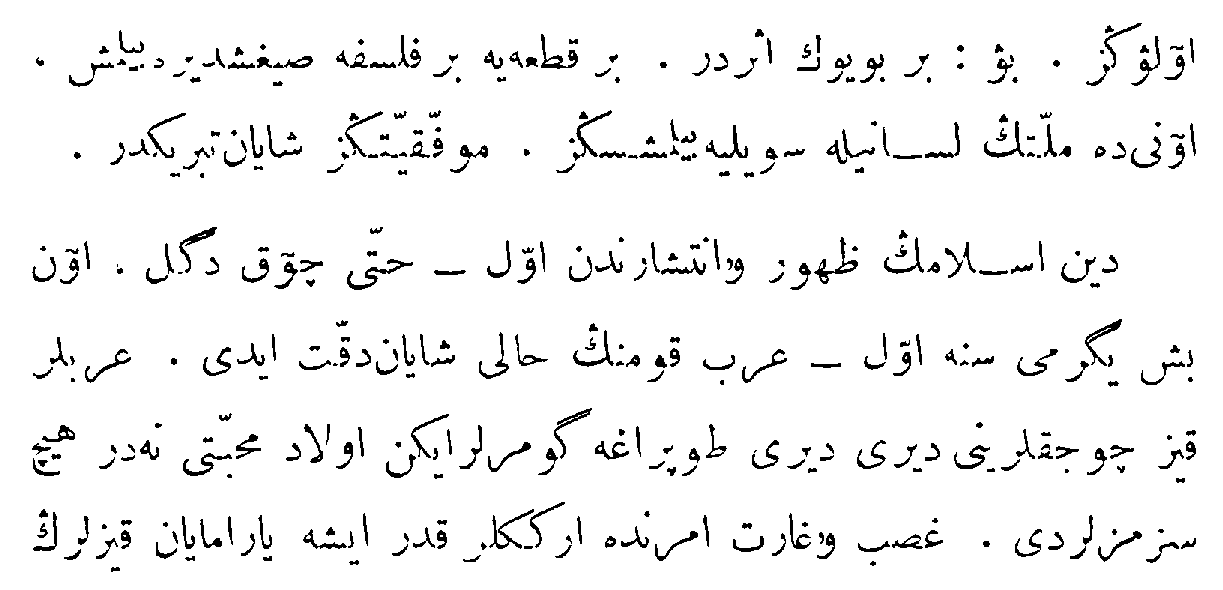
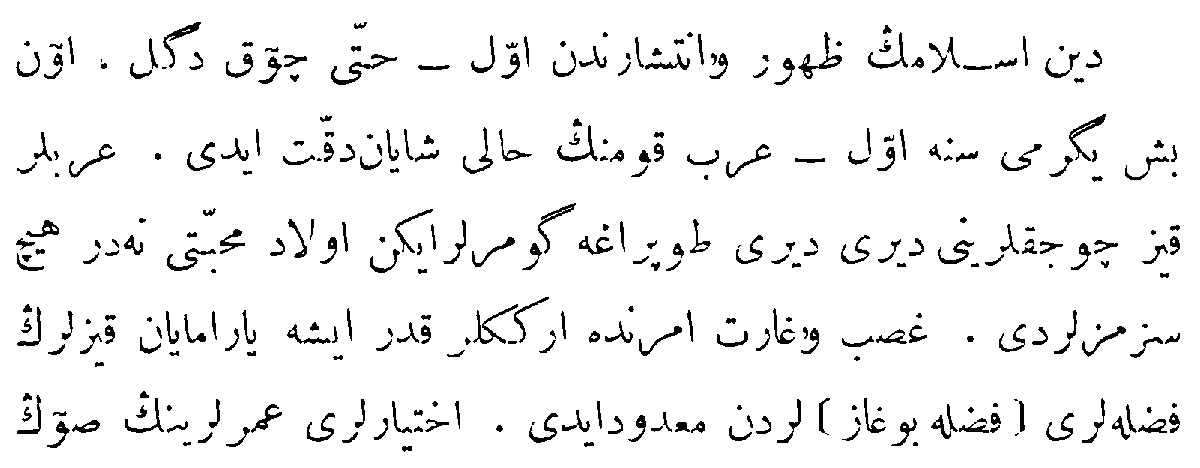
img cropped updated

diff --git a/webui/views.py b/webui/views.py
@@ -203,26 +203,32 @@ def cropLines(request):
             print(coordinates)
             print(width)
             
-            os.makedirs("./media/images/cropped", exist_ok=True)
+            #os.makedirs("./media/images/cropped", exist_ok=True)
             ##klasörü temizleyelim
-            shutil.rmtree("./media/images/cropped")
+            #shutil.rmtree("./media/images/cropped")
     
             yh= int(coords_y)+int(coords_h)
             xw= int(coords_x)+int(coords_w)
             print(  "XH"+ str(xw) +"........."+str(yh))
             ##dolduralım
             img = cv2.imread("./media/images/cropped_image.png")
+            print("imageeeeeeeeee")
+            print(img)
             counter=1
             for sayi in range(0,len(coordinates),2):
                 print("IN coordinates FOR ")
                 height=int(coordinates[sayi+1])-int(coordinates[sayi])
-                print("height"+ str(height))
+               
 
-                cropped_img=img[int(coords_y):int(coords_y)+int(height), int(coords_x):xw]
+                #yüksekliğin nerden başladığı ve yüksekliği
+                
+                cropped_img=img[int(coordinates[sayi]):(height+int(coordinates[sayi])), 0:int(width)]
+                
                 coords_y = int(coords_y) +  int(height)
-                filename = "./media/images/crop"+str(counter)+".png"
+                filename = "./media/images/cropped/crop"+str(counter)+".png"
                 cv2.imwrite(filename, cropped_img)
                 counter+=1
+               
     
             yh= int(coords_y)+int(coords_h)
             xw= int(coords_x)+int(coords_w)
